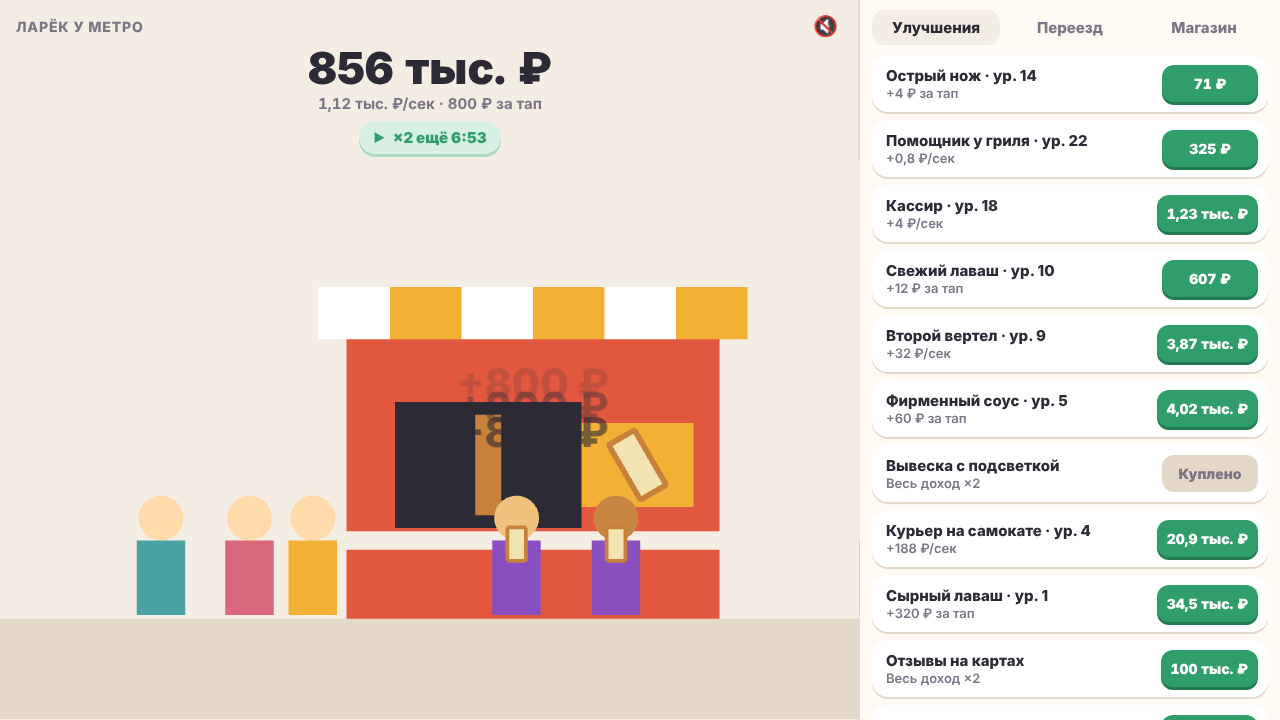
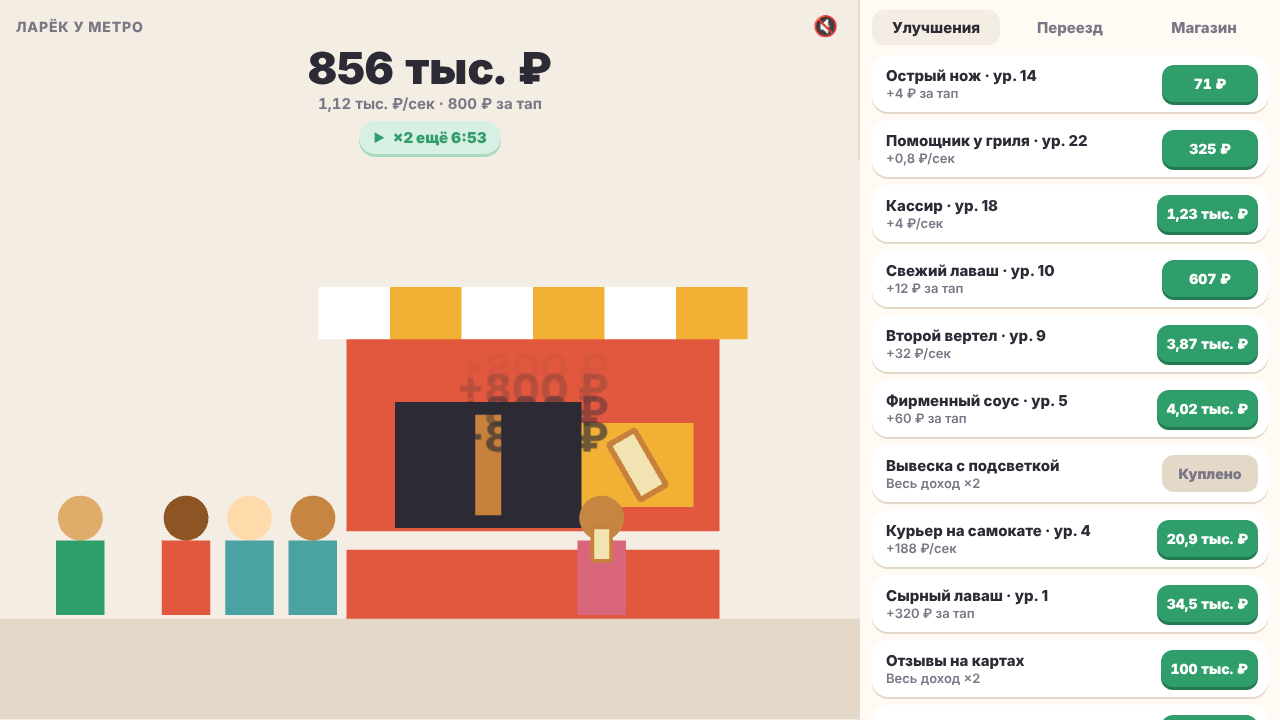
Docs: project structure, roadmap progress, Yandex Games publishing guide
Claude-Session: https://claude.ai/code/session_01Qaf8nFrGjceNFtBnCV7UjF

Changed region(s): [[0.0312, 0.6722, 0.2812, 0.8556], [0.375, 0.6722, 0.5, 0.8556], [0.3438, 0.5194, 0.5, 0.6417]]

diff --git a/docs/yandex-publish.md b/docs/yandex-publish.md
@@ -1,0 +1,71 @@
+# Как выложить игру на Яндекс Игры
+
+Кнопки и названия разделов в консоли Яндекса иногда меняются. Если что-то выглядит не так, как здесь описано, ищите раздел с похожим смыслом или спросите ИИ-помощника, приложив скриншот.
+
+## 1. Аккаунт разработчика
+1. Зайдите в консоль разработчика: https://games.yandex.ru/console (нужен Яндекс ID).
+2. Примите условия для разработчиков и заполните профиль.
+3. В разделе про выплаты укажите статус «самозанятый» и реквизиты. Выплаты идут от 3 000 ₽ накопленного дохода.
+
+## 2. Собрать архив
+```bash
+npm install
+npm run zip
+```
+В корне появится `shawarma-idle.zip` (около 350 КБ). Внутри `index.html` лежит в корне архива, как требует Яндекс.
+
+## 3. Создать игру в консоли
+1. «Добавить приложение», тип — HTML5-игра.
+2. Загрузите `shawarma-idle.zip` в разделе со сборкой (черновик).
+3. Откройте черновик по ссылке из консоли и проверьте: тап, покупки улучшений, переезд, реклама (в черновике показывается тестовая), сохранение после перезагрузки.
+
+## 4. Страница игры
+Все картинки лежат в папке `promo/`.
+
+| Что | Файл | Размер |
+|---|---|---|
+| Иконка | `promo/icon.png` | 512×512 |
+| Обложка | `promo/cover.png` | 800×470 |
+| Скриншот для телефона | `promo/screen-phone.png` | 780×1560 |
+| Скриншот для компьютера | `promo/screen-desktop.png` | 1280×720 |
+
+Если консоль просит другой размер, откройте `promo/art.html?icon` или `promo/art.html?cover` в браузере и попросите ИИ-помощника перерисовать под нужный размер.
+
+**Название:** Шаурма-лавка (англ. Shawarma Stand Idle).
+
+**Короткое описание:** Начни с ларька у метро и построй сеть шаурмичных. Тапай, нанимай помощников и переезжай в места побольше.
+
+**Описание:**
+> Ларёк с шаурмой у метро — только начало. Тапай по ларьку, чтобы обслуживать покупателей, покупай новые рецепты и нанимай помощников, которые торгуют, даже пока тебя нет. Накопил достаточно? Переезжай: киоск на рынке, магазинчик, кафе и, наконец, своя сеть. Каждый переезд даёт постоянный множитель дохода. Простая игра, чтобы занять пару минут в дороге.
+
+**Жанр:** казуальные / кликеры (idle). **Возраст:** 0+. **Языки:** русский, английский. **Устройства:** телефон, планшет, компьютер. **Ориентация:** любая.
+
+## 5. Покупки внутри игры
+В разделе покупок создайте три товара. Идентификаторы должны совпадать в точности, иначе игра их не увидит.
+
+| ID | Название | Тип | Цена (предложение) |
+|---|---|---|---|
+| `no_ads` | Без рекламы | постоянный | 99 ₽ |
+| `x2_forever` | Доход ×2 навсегда | постоянный | 149 ₽ |
+| `cash_pack` | Мешок денег | расходуемый | 29 ₽ |
+
+Покупки начинают работать после того, как Яндекс одобрит монетизацию игры. До этого во вкладке «Магазин» игра пишет, что покупки недоступны, и это нормально.
+
+## 6. Реклама
+Включите рекламу в настройках игры. Игра сама вызывает:
+- рекламу за награду: буст ×2 на 10 минут и удвоение офлайн-дохода (только по кнопке игрока);
+- полноэкранную рекламу: только после переезда и никогда, если куплено «Без рекламы».
+
+## 7. Модерация
+Отправьте игру на модерацию. Частые причины отказа и что уже сделано:
+- Звук не выключается при сворачивании: сделано, звук ставится на паузу.
+- Интерфейс ломается на каком-то размере экрана: проверено на телефоне и компьютере.
+- Нет вызова `LoadingAPI.ready`: вызывается, когда игра загрузилась.
+- Реклама мешает игре: полноэкранная показывается только после переезда.
+
+Если модерация вернёт замечания, скопируйте их ИИ-помощнику целиком.
+
+## 8. После выпуска
+- Следите за рейтингом: ниже 30 игру снимут через 3 недели.
+- Смотрите в консоли, сколько игроков возвращается на второй день. Если мало, первым делом ускорьте начало игры.
+- Каждую новую версию собирайте `npm run zip` и загружайте как новую сборку.

diff --git a/CLAUDE.md b/CLAUDE.md
@@ -6,12 +6,21 @@ Idle-кликер про ларёк с шаурмой. Браузерная иг
 
 ## Стек
 - TypeScript, Phaser 3.90 (не Phaser 4: по третьей версии больше примеров и знаний у ИИ), Vite, Vitest.
-- `npm run dev` — запуск, `npm test` — тесты, `npm run build` — сборка в `dist/`.
+- `npm run dev` — запуск, `npm test` — тесты, `npm run build` — сборка в `dist/`, `npm run zip` — сборка и архив `shawarma-idle.zip` для загрузки в консоль Яндекс Игр.
 
 ## Структура
-- `src/core/` — чистая логика игры (экономика, улучшения, офлайн-доход). Без Phaser, без `window`, без `localStorage`. Всё покрыто тестами в `*.test.ts`.
-- `src/scenes/` — сцены Phaser: только отрисовка и ввод. Логику не писать здесь, звать функции из `core`.
-- `src/platform/` — адаптер площадки: сохранения, реклама, покупки, язык. Игра обращается к площадке только через интерфейс `Platform`.
+- `src/core/` — чистая логика игры. Без Phaser, без `window`, без `localStorage`. Покрыто тестами в `economy.test.ts`.
+  - `economy.ts` — `GameState`, тап, покупка, тик, офлайн-доход, переезд, буст, миграция старых сохранений (`normalize`).
+  - `upgrades.ts` — таблица из 18 улучшений (тап, помощники, множители). `locations.ts` — 5 локаций с порогами и множителями.
+  - `format.ts` — короткие числа (1,2 тыс., 3,4 млн). `sim.ts` — симуляция игрока для тестов баланса.
+- `src/scenes/StallScene.ts` — сцена Phaser: ларёк из фигур, очередь покупателей, всплывающие суммы. Только отрисовка и ввод.
+- `src/ui.ts` — HTML-интерфейс поверх сцены: деньги, вкладки «Улучшения / Переезд / Магазин», окно офлайн-дохода. Разметка в `index.html`, стили в `src/style.css`.
+- `src/game.ts` — контроллер: держит состояние, цикл 10 раз в секунду, сохранение каждые 10 с, реклама, покупки, пауза.
+- `src/i18n.ts` — все тексты на русском и английском. Новые строки добавлять только сюда.
+- `src/audio.ts` — звуки, синтезированные через Web Audio, без файлов.
+- `src/platform/` — адаптер площадки. `platform.ts` — интерфейс `Platform` и локальная версия для браузера; `yandex.ts` — Яндекс SDK (облачные сохранения, реклама, покупки `no_ads`, `x2_forever`, `cash_pack`, язык, пауза).
+- `promo/` — иконка, обложка и скриншоты для страницы игры. `art.html` — исходник иконки и обложки.
+- `docs/yandex-publish.md` — как выложить игру на Яндекс Игры.
 
 ## Правила работы
 - Одна задача на один запрос. После каждого рабочего шага: `npm test`, `npm run build`, коммит.
@@ -19,7 +28,8 @@ Idle-кликер про ларёк с шаурмой. Браузерная иг
 - Состояние игры (`GameState`) — простой JSON. При добавлении поля в `GameState` предусмотреть значение по умолчанию для старых сохранений.
 - Никаких сетевых запросов, кроме SDK площадки. Никаких вызовов нейросетей внутри игры (запрещено правилами Яндекс Игр, п. 1.23).
 - Графика — минимализм из простых фигур (прямоугольники, круги) в палитре из `StallScene`. Без картинок, пока не решим иначе.
-- Тексты для игрока на русском; позже добавим английский через словарь, поэтому строки не разбрасывать по коду без нужды.
+- Тексты для игрока только через `t()` из `src/i18n.ts`, всегда на двух языках.
+- Баланс: тест требует первый переезд за 6–20 минут и каждый следующий за 5–90 минут игры. Меняя цены, запускайте `npm test`.
 
 ## Требования Яндекс Игр, которые надо держать в голове
 - Звук выключается, когда вкладка неактивна.

diff --git a/docs/roadmap.md b/docs/roadmap.md
@@ -7,22 +7,29 @@
 - [x] Ларёк из фигур, тап даёт деньги
 - [x] Два улучшения: рецепт и помощник
 - [x] Офлайн-доход (до 2 часов) и сохранение в браузере
-- [ ] Очередь покупателей (кружки, которые подходят к ларьку)
+- [x] Очередь покупателей (кружки, которые подходят к ларьку)
 
 ## Недели 3–5: экономика и переезд
-- [ ] 15–20 улучшений, данные в одной таблице
-- [ ] Переезд (престиж) и 3 локации
-- [ ] Красивые большие числа (1,2 тыс., 3,4 млн)
-- [ ] Тесты баланса: время до первого переезда 10–20 минут
+- [x] 15–20 улучшений, данные в одной таблице
+- [x] Переезд (престиж) и 5 локаций
+- [x] Красивые большие числа (1,2 тыс., 3,4 млн)
+- [x] Тесты баланса: время до первого переезда 10–20 минут
 
 ## Недели 6–8: вид и звук
-- [ ] Анимации, звуки, вертикальная и горизонтальная раскладка
-- [ ] Английский язык
+- [x] Анимации, звуки, вертикальная и горизонтальная раскладка
+- [x] Английский язык
 
 ## Недели 9–10: Яндекс Игры
-- [ ] Реализация `Platform` для Яндекс SDK: облачные сохранения, реклама, покупки, язык
-- [ ] Пауза звука при сворачивании
-- [ ] Подача на модерацию
+- [x] Реализация `Platform` для Яндекс SDK: облачные сохранения, реклама, покупки, язык
+- [x] Пауза звука при сворачивании
+- [x] Иконка, обложка, скриншоты в `promo/`, архив `npm run zip`
+- [ ] Подача на модерацию (по шагам в `docs/yandex-publish.md`)
 
 ## Недели 11–12: релиз
 - [ ] Смотреть удержание, чинить баланс, держать рейтинг выше 30
+
+## Идеи на потом
+- Ежедневная награда и задания
+- Достижения и таблица лидеров Яндекса
+- Новые локации после «Сети шаурмичных»
+- Версия для VK Games

diff --git a/README.md b/README.md
@@ -10,14 +10,20 @@ Idle-кликер про ларёк с шаурмой для Яндекс Игр
 npm install
 npm run dev      # откроет игру на http://localhost:5173
 npm test         # тесты экономики
-npm run build    # сборка в dist/ для загрузки на площадку
+npm run build    # сборка в dist/
+npm run zip      # архив shawarma-idle.zip для консоли Яндекс Игр
 ```
 
 ## Где что лежит
 
 - `src/core/` — логика игры и тесты
-- `src/scenes/` — сцены Phaser
-- `src/platform/` — сохранения, позже реклама и покупки площадки
+- `src/scenes/` — сцена Phaser с ларьком
+- `src/ui.ts`, `index.html`, `src/style.css` — интерфейс
+- `src/game.ts` — контроллер игры
+- `src/i18n.ts` — тексты на русском и английском
+- `src/platform/` — сохранения, реклама и покупки (браузер и Яндекс Игры)
+- `promo/` — иконка, обложка и скриншоты
+- `docs/yandex-publish.md` — как выложить игру
 - `docs/design.md` — дизайн игры
 - `docs/roadmap.md` — план по неделям
 - `CLAUDE.md` — правила для ИИ-помощника
